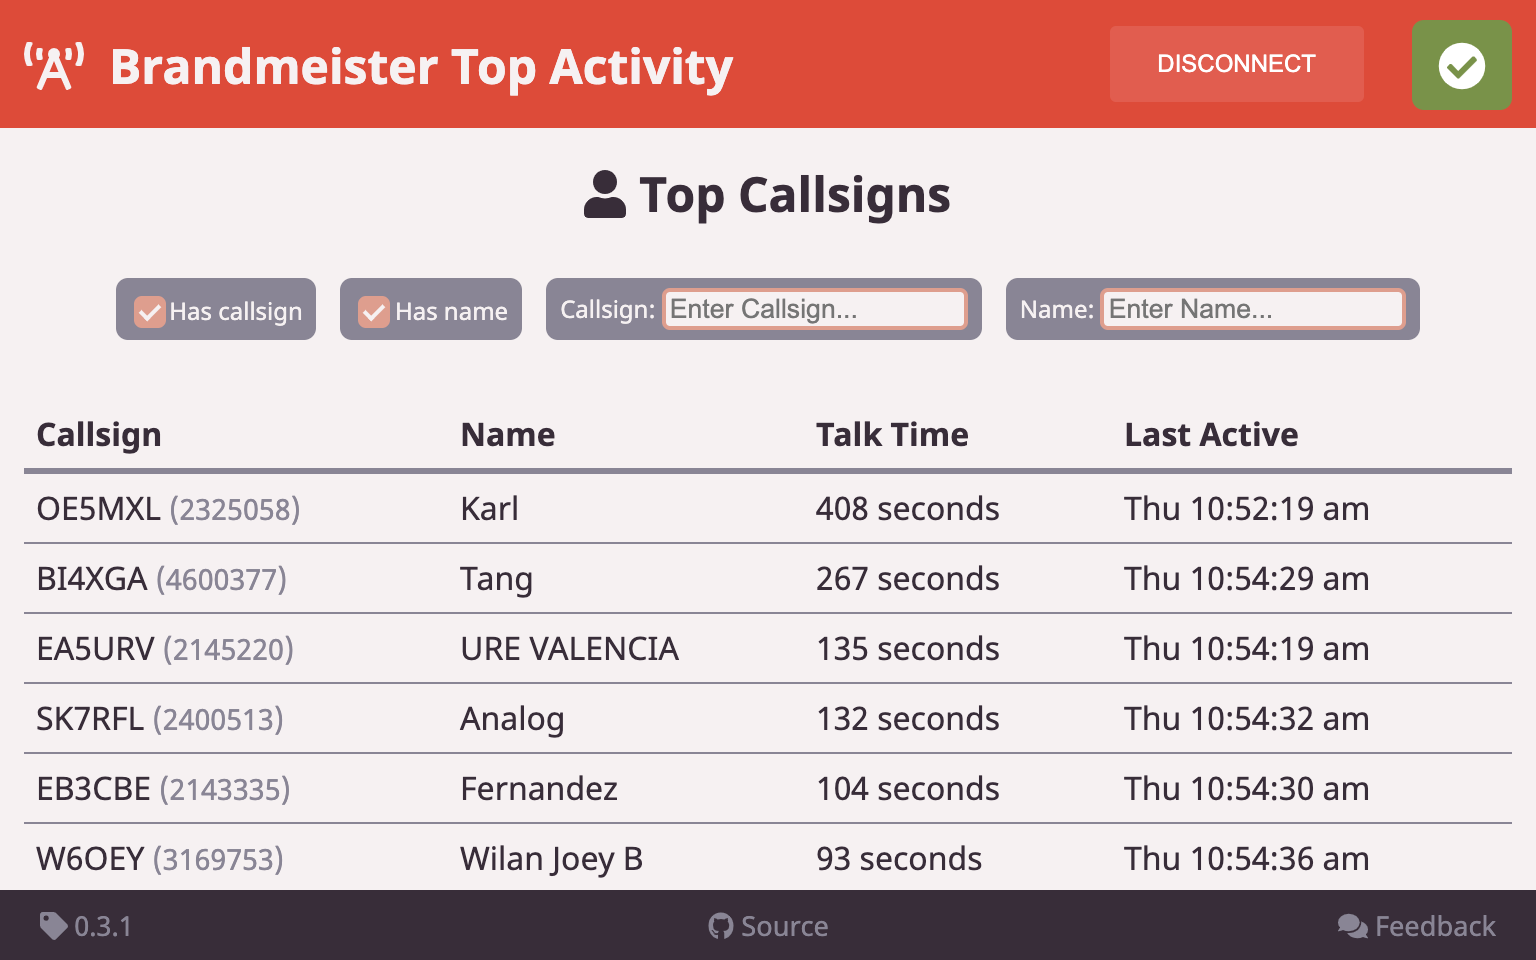
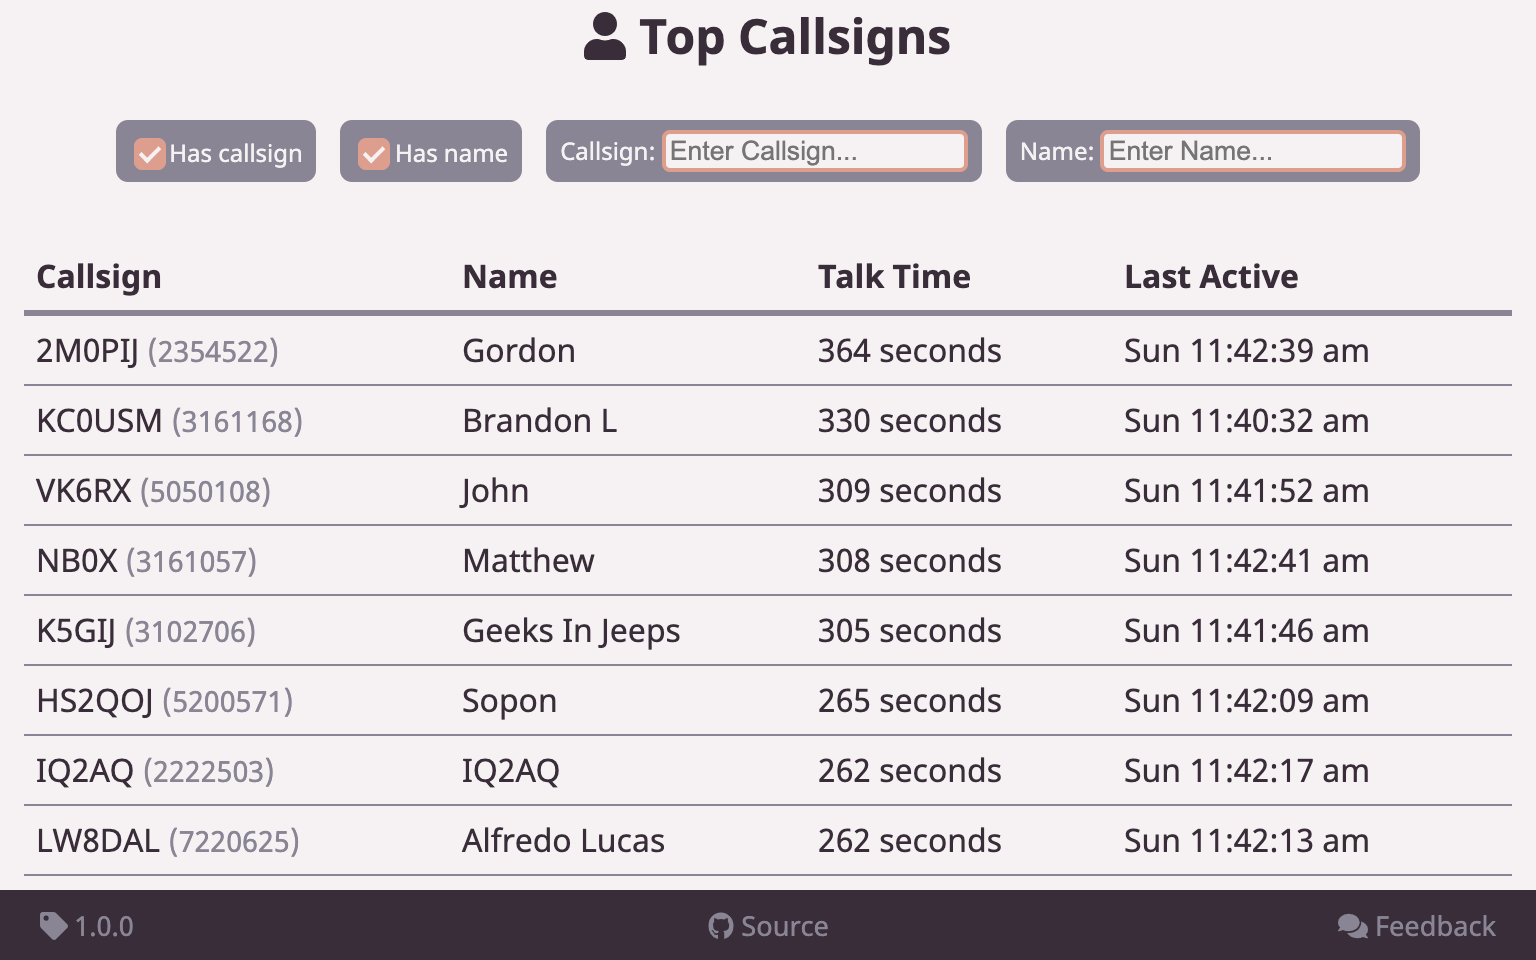
Updates for the v1 release of the app
-New release news
-New screenshots

diff --git a/src/components/SiteMetadata.jsx b/src/components/SiteMetadata.jsx
@@ -22,6 +22,7 @@ export default function SiteMetadata({ title, description, lang }) {
   return (
     <Helmet htmlAttributes={{ lang }} title={title} titleTemplate={`${siteMetadata.title} - %s`}>
       <meta name="description" property="og:description" content={metaDescription} />
+      <meta name="keywords" content="brandmeister activity, brandmeister talkgroups live, brandmeister talkgroups, brandmeister, brandmeister live, best brandmeister talkgroups"></meta>
       <meta property="og:title" content={title} />
       <meta property="og:type" content="website" />
       <meta property="og:locale" content={lang} />

diff --git a/gatsby-config.js b/gatsby-config.js
@@ -7,7 +7,7 @@ module.exports = {
       'Brandmeister Top Activity provides a way to see the most active talk groups and users on the Brandmeister DMR network',
     author: '@alexgladd',
     url: 'https://www.brandmeisteractivity.live',
-    lastModified: '2021-05-02T19:27:00.000Z',
+    lastModified: '2021-05-09T11:56:00.000Z',
   },
   plugins: [
     `gatsby-plugin-image`,

diff --git a/src/news/2021-05-09-release-1.0.0.md b/src/news/2021-05-09-release-1.0.0.md
@@ -1,0 +1,23 @@
+---
+tags: news
+title: Release 1.0.0
+date: 2021-05-09
+---
+
+The "v1" release; ready for production!
+<!-- excerpt -->
+In this release I took care o a couple custodial tasks that I had been meaning to do for a while
+before calling the app "version 1". First, I wanted to provide navigation links from the app back
+to this site so that users who found the app first can read more about it. I also make the
+navigation menu responsive so that it works well on mobile devices. I know a lot of users like to
+use the app on their mobile devices. Second, I wanted to take care of a few different cleanup tasks
+of the app's site metadata, including a new site icon and a basic sitemap. Finally, I added
+integration with [Sentry](https://sentry.io) so I could get notified if there are any uncaught
+errors that users encounter in production.
+
+I've updated the screenshots on the [About](https://www.brandmeisteractivity.live) homepage to
+reflect the changes above (mainly the addition of the navigation menu). I hope you continue to enjoy
+using the app!
+
+Cheers,<br>
+~Alex
